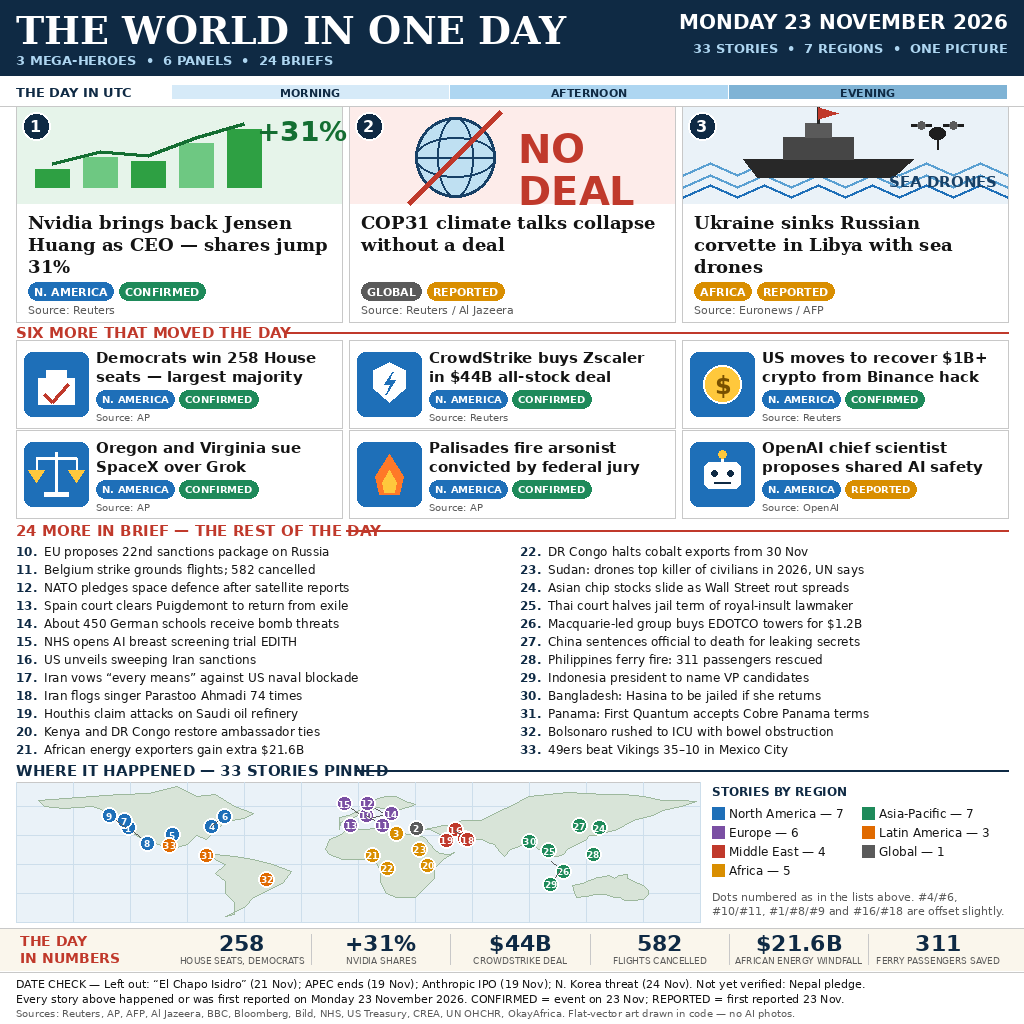
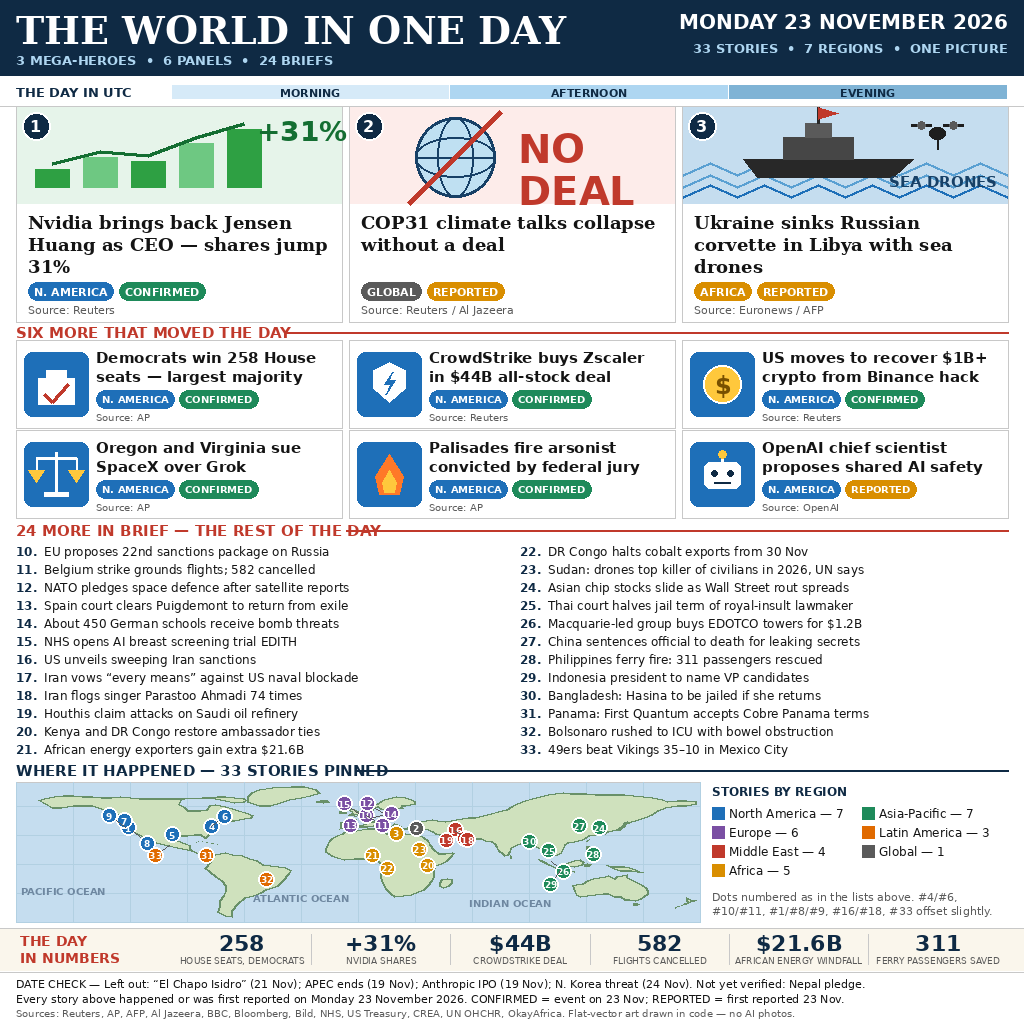
news-image-20261123 acct2: improve world map continents

Changed region(s): [[0.0, 0.75, 0.6875, 0.9062], [0.6562, 0.0938, 1.0, 0.2188], [0.8125, 0.875, 0.9688, 0.9062]]

diff --git a/build.py b/build.py
@@ -30,9 +30,9 @@ PAPER = (255, 255, 255)
 INK = (20, 20, 20)
 GREY = (90, 90, 90)
 LINE = (200, 200, 200)
-SEA = (234, 242, 248)
-LAND = (216, 228, 216)
-LAND_LINE = (157, 184, 157)
+SEA = (197, 221, 239)
+LAND = (207, 225, 189)
+LAND_LINE = (104, 144, 104)
 CREAM = (250, 246, 236)
 
 REGION_COLOR = {
@@ -116,37 +116,138 @@ REGION_COUNTS = [
     ("Africa", 5), ("Asia-Pacific", 7), ("Latin America", 3), ("Global", 1),
 ]
 
-# Coarse continent outlines as (lon, lat) polygons (stylised map).
+# Detailed continent outlines as (lon, lat) polygons, drawn by hand from
+# the real coastlines so each landmass reads at a glance: Alaska and the
+# Hudson Bay notch, Florida and Baja, the Yucatan and Panama isthmus,
+# Greenland, the Brazil bulge, Iberia, the Italy boot, Greece, Scandinavia,
+# the UK and Ireland, the African horn and bulge, Madagascar, Arabia,
+# India, the Malay peninsula, Indonesia, Japan, the Philippines,
+# New Guinea, Australia, Tasmania and New Zealand.
 CONTINENTS = [
-    [(-168, 66), (-140, 70), (-125, 72), (-110, 73), (-95, 80), (-85, 70),
-     (-75, 72), (-65, 60), (-55, 52), (-60, 47), (-70, 44), (-75, 35),
-     (-80, 25), (-85, 30), (-90, 20), (-97, 16), (-105, 20), (-115, 28),
-     (-125, 40), (-125, 49), (-140, 60), (-155, 58), (-165, 60)],
-    [(-80, 10), (-75, 5), (-70, 0), (-75, -10), (-70, -18), (-70, -30),
-     (-65, -40), (-65, -52), (-70, -54), (-60, -45), (-55, -35), (-48, -28),
-     (-40, -20), (-35, -8), (-45, 0), (-55, 5), (-65, 8), (-75, 10)],
-    [(-10, 36), (-9, 43), (-2, 48), (0, 50), (5, 53), (8, 57), (10, 59),
-     (18, 56), (21, 55), (24, 58), (28, 60), (30, 62), (25, 65), (20, 70),
-     (15, 70), (10, 68), (5, 62), (5, 58), (0, 55), (-5, 50), (-10, 48),
-     (-10, 43), (-10, 36)],
-    [(-6, 35), (10, 37), (20, 32), (30, 31), (35, 28), (40, 15), (43, 11),
-     (48, 10), (51, 12), (45, 5), (40, -5), (40, -15), (35, -25), (30, -35),
-     (20, -35), (15, -30), (12, -18), (12, -8), (9, 4), (0, 5), (-8, 5),
-     (-15, 10), (-17, 15), (-15, 25), (-10, 30)],
-    [(30, 36), (35, 36), (40, 38), (45, 40), (50, 40), (55, 45), (60, 45),
-     (65, 45), (70, 50), (75, 55), (80, 60), (85, 65), (90, 70), (100, 72),
-     (110, 74), (120, 73), (130, 72), (140, 72), (150, 70), (160, 66),
-     (170, 66), (178, 65), (170, 60), (160, 55), (155, 50), (145, 45),
-     (140, 40), (135, 35), (130, 33), (127, 30), (122, 30), (120, 25),
-     (115, 20), (110, 15), (108, 10), (105, 8), (100, 8), (98, 12), (95, 15),
-     (92, 20), (90, 22), (88, 22), (85, 18), (80, 15), (77, 8), (75, 12),
-     (72, 20), (68, 22), (65, 25), (60, 25), (57, 26), (55, 27), (52, 28),
-     (50, 29), (48, 30), (45, 30), (42, 32), (38, 36), (35, 36), (30, 36)],
-    [(113, -22), (114, -30), (115, -35), (120, -34), (125, -32), (130, -32),
-     (135, -35), (138, -35), (140, -38), (145, -38), (150, -37), (153, -32),
-     (153, -27), (150, -22), (146, -19), (142, -15), (142, -11), (137, -12),
-     (135, -15), (132, -12), (130, -13), (126, -14), (122, -17), (118, -20),
-     (113, -22)],
+    # North America (Bering Strait, down the Pacific coast, Panama,
+    # up the Caribbean/Gulf/Atlantic coast, Hudson Bay notch, Arctic coast)
+    [(-168, 66), (-161, 58), (-156, 58), (-150, 60), (-144, 60), (-140, 60),
+     (-135, 57), (-130, 54), (-125, 49), (-124, 43), (-121, 36), (-117, 32),
+     (-114, 29), (-110, 24), (-106, 21), (-100, 18), (-95, 16), (-90, 14),
+     (-86, 12), (-83, 9), (-80, 8), (-78, 8), (-81, 10), (-84, 11),
+     (-87, 14), (-88, 16), (-88, 19), (-91, 21), (-95, 24), (-97, 26),
+     (-94, 29), (-90, 29), (-86, 30), (-83, 30), (-81, 26), (-80, 27),
+     (-78, 30), (-76, 34), (-74, 38), (-73, 41), (-70, 42), (-68, 44),
+     (-65, 44), (-60, 46), (-56, 47), (-55, 50), (-59, 53), (-63, 56),
+     (-66, 58), (-70, 60), (-75, 62), (-78, 61), (-80, 57), (-83, 55),
+     (-86, 55), (-89, 56), (-91, 59), (-94, 62), (-93, 66), (-90, 68),
+     (-86, 68), (-82, 69), (-78, 69), (-74, 70), (-70, 70), (-65, 69),
+     (-60, 68), (-58, 66), (-60, 64), (-65, 63), (-70, 65), (-75, 67),
+     (-80, 68), (-85, 68), (-90, 68), (-95, 68), (-100, 68), (-105, 68),
+     (-110, 68), (-115, 68), (-120, 69), (-125, 70), (-130, 69), (-135, 69),
+     (-140, 70), (-145, 70), (-150, 71), (-155, 71), (-160, 70), (-165, 68),
+     (-168, 66)],
+    # Greenland
+    [(-58, 64), (-52, 60), (-46, 60), (-41, 63), (-36, 66), (-30, 68),
+     (-25, 70), (-20, 73), (-22, 77), (-28, 80), (-35, 80), (-45, 79),
+     (-52, 77), (-56, 74), (-58, 70), (-58, 64)],
+    # South America
+    [(-80, 10), (-77, 5), (-80, -2), (-81, -5), (-78, -9), (-75, -14),
+     (-72, -18), (-70, -23), (-70, -28), (-71, -33), (-73, -38), (-73, -44),
+     (-74, -50), (-70, -54), (-66, -55), (-66, -49), (-63, -42), (-59, -36),
+     (-55, -34), (-51, -30), (-48, -27), (-42, -23), (-39, -18), (-36, -11),
+     (-35, -7), (-38, -4), (-42, -2), (-46, -1), (-50, 0), (-53, 4),
+     (-57, 6), (-61, 9), (-66, 10), (-70, 12), (-75, 10), (-77, 8),
+     (-80, 10)],
+    # Europe (Iberia, Italy boot, Greece, Scandinavia, Black Sea coast)
+    [(-10, 36), (-9, 38), (-9, 43), (-2, 44), (-1, 46), (-4, 48), (-1, 49),
+     (0, 51), (3, 53), (5, 53), (8, 55), (8, 57), (10, 59), (12, 57),
+     (18, 56), (18, 54), (21, 55), (21, 57), (24, 58), (23, 60), (25, 60),
+     (30, 62), (30, 65), (28, 67), (25, 69), (20, 70), (18, 69), (14, 67),
+     (12, 65), (10, 63), (6, 61), (5, 58), (8, 58), (6, 55), (3, 52),
+     (0, 50), (-2, 49), (-5, 48), (-2, 47), (-4, 44), (-2, 43), (0, 40),
+     (3, 41), (7, 44), (10, 44), (12, 44), (14, 42), (16, 40), (16, 38),
+     (18, 40), (19, 42), (21, 41), (23, 39), (23, 37), (26, 38), (26, 36),
+     (28, 37), (30, 36), (27, 36), (23, 36), (21, 36), (18, 36), (15, 37),
+     (12, 38), (10, 37), (8, 39), (5, 38), (2, 38), (0, 38), (-2, 37),
+     (-6, 36), (-9, 37), (-10, 36)],
+    # United Kingdom
+    [(-5, 50), (-3, 53), (-5, 56), (-4, 58), (-2, 57), (0, 54), (1, 51),
+     (-2, 50), (-5, 50)],
+    # Ireland
+    [(-10, 52), (-6, 52), (-6, 55), (-8, 55), (-10, 54), (-10, 52)],
+    # Iceland
+    [(-22, 64), (-18, 63), (-15, 64), (-16, 66), (-20, 66), (-22, 65),
+     (-22, 64)],
+    # Africa (west bulge, horn, southern taper)
+    [(-6, 35), (-1, 35), (5, 37), (10, 37), (11, 34), (15, 32), (20, 32),
+     (25, 32), (30, 31), (33, 30), (35, 28), (37, 24), (38, 20), (40, 15),
+     (43, 11), (46, 11), (50, 12), (51, 11), (49, 7), (47, 3), (44, 0),
+     (41, -3), (40, -8), (40, -13), (39, -18), (37, -23), (35, -27),
+     (32, -29), (28, -33), (24, -34), (19, -35), (17, -32), (15, -27),
+     (13, -20), (12, -14), (12, -8), (13, -4), (12, 0), (10, 3), (7, 4),
+     (3, 5), (-2, 5), (-7, 4), (-11, 6), (-14, 8), (-17, 12), (-17, 15),
+     (-16, 20), (-15, 24), (-14, 27), (-11, 30), (-8, 32), (-6, 35)],
+    # Madagascar
+    [(44, -16), (47, -15), (50, -16), (50, -20), (48, -23), (45, -25),
+     (43, -23), (43, -19), (44, -16)],
+    # Asia (Siberia, Pacific coast, Malay peninsula, India, Arabia, Levant)
+    [(28, 41), (30, 43), (33, 44), (36, 45), (39, 46), (42, 45), (46, 44),
+     (49, 45), (52, 46), (55, 47), (58, 48), (62, 48), (66, 50), (70, 52),
+     (74, 54), (78, 57), (81, 60), (84, 63), (88, 66), (92, 68), (96, 70),
+     (100, 72), (104, 73), (108, 74), (112, 73), (116, 73), (120, 73),
+     (125, 72), (130, 72), (135, 72), (140, 72), (145, 71), (150, 70),
+     (155, 69), (160, 67), (163, 65), (168, 66), (173, 66), (178, 65),
+     (178, 62), (173, 60), (168, 60), (162, 58), (158, 54), (155, 50),
+     (151, 47), (146, 44), (142, 42), (140, 38), (137, 35), (134, 34),
+     (131, 33), (128, 31), (125, 30), (122, 29), (120, 26), (118, 24),
+     (114, 22), (111, 21), (109, 19), (108, 15), (107, 11), (105, 9),
+     (103, 8), (101, 7), (99, 9), (98, 12), (96, 15), (93, 18), (91, 21),
+     (89, 22), (87, 21), (84, 19), (81, 16), (80, 12), (79, 9), (77, 8),
+     (76, 10), (74, 13), (73, 17), (72, 20), (70, 22), (67, 23), (65, 25),
+     (62, 25), (59, 25), (57, 26), (55, 27), (53, 27), (51, 28), (49, 29),
+     (48, 30), (46, 30), (43, 30), (41, 31), (39, 33), (37, 35), (35, 36),
+     (33, 36), (31, 36), (29, 37), (28, 39), (28, 41)],
+    # Japan
+    [(130, 31), (132, 33), (134, 34), (136, 35), (138, 35), (139, 37),
+     (140, 38), (141, 40), (141, 42), (143, 42), (142, 44), (140, 43),
+     (139, 40), (137, 37), (135, 35), (133, 34), (131, 33), (130, 31)],
+    # Philippines
+    [(120, 18), (122, 18), (122, 15), (124, 13), (126, 11), (125, 9),
+     (123, 8), (122, 10), (121, 13), (120, 16), (120, 18)],
+    # Sumatra
+    [(95, 5), (97, 4), (99, 2), (101, 0), (103, -2), (105, -4), (106, -6),
+     (104, -5), (102, -3), (100, -1), (98, 1), (96, 3), (95, 5)],
+    # Java
+    [(105, -6), (108, -7), (111, -7), (114, -8), (114, -9), (111, -8),
+     (108, -8), (105, -7), (105, -6)],
+    # Borneo
+    [(109, 1), (111, 2), (114, 4), (117, 5), (119, 2), (118, -1), (116, -3),
+     (114, -4), (111, -3), (109, -1), (109, 1)],
+    # Sulawesi
+    [(119, 0), (121, 1), (123, 0), (122, -2), (120, -3), (119, -2),
+     (119, 0)],
+    # New Guinea
+    [(131, -1), (134, -2), (137, -2), (140, -3), (143, -4), (146, -6),
+     (148, -8), (150, -9), (147, -9), (144, -8), (141, -8), (138, -8),
+     (135, -6), (132, -3), (131, -1)],
+    # Sri Lanka
+    [(80, 9), (81, 8), (81, 6), (80, 6), (80, 9)],
+    # Taiwan
+    [(120, 23), (121, 24), (122, 25), (121, 23), (120, 23)],
+    # Cuba
+    [(-85, 22), (-82, 23), (-79, 22), (-76, 21), (-74, 20), (-77, 21),
+     (-80, 22), (-84, 23), (-85, 22)],
+    # Australia
+    [(113, -22), (114, -28), (115, -33), (117, -35), (121, -34), (125, -33),
+     (129, -32), (132, -32), (135, -35), (138, -35), (140, -38), (143, -38),
+     (146, -39), (149, -37), (151, -35), (153, -31), (153, -27), (152, -24),
+     (150, -22), (147, -19), (144, -16), (142, -14), (142, -11), (139, -12),
+     (136, -13), (135, -15), (132, -12), (130, -13), (127, -14), (124, -15),
+     (121, -17), (118, -20), (115, -21), (113, -22)],
+    # Tasmania
+    [(145, -41), (147, -41), (148, -42), (147, -43), (145, -43), (145, -41)],
+    # New Zealand (North Island)
+    [(173, -35), (175, -37), (177, -38), (178, -38), (177, -39), (175, -40),
+     (174, -41), (173, -39), (173, -36), (173, -35)],
+    # New Zealand (South Island)
+    [(167, -45), (169, -44), (171, -43), (173, -42), (174, -41), (172, -41),
+     (170, -43), (168, -44), (167, -46), (167, -45)],
 ]
 
 
@@ -423,7 +524,7 @@ def draw_briefs(d):
 
 OFFSETS = {6: (13, -10), 11: (16, 10), 15: (-14, -10), 14: (18, -4),
            12: (-16, -10), 9: (-16, -12), 8: (14, 12), 18: (13, 9),
-           26: (12, 10), 29: (-10, 14)}
+           26: (12, 10), 29: (-10, 14), 33: (-14, 10)}
 
 
 def draw_map(d):
@@ -440,13 +541,21 @@ def draw_map(d):
 
     for lon in range(-180, 181, 30):
         x, _ = proj(lon, 85)
-        d.line([x, my0, x, my0 + mh], fill=(205, 222, 235), width=1)
+        d.line([x, my0, x, my0 + mh], fill=(178, 208, 226), width=1)
     for lat in (-60, -30, 0, 30, 60):
         _, y = proj(0, lat)
-        d.line([mx0, y, mx0 + mw, y], fill=(205, 222, 235), width=1)
+        d.line([mx0, y, mx0 + mw, y], fill=(178, 208, 226), width=1)
     for poly in CONTINENTS:
         pts = [proj(lon, lat) for lon, lat in poly]
-        d.polygon(pts, fill=LAND, outline=LAND_LINE)
+        d.polygon(pts, fill=LAND, outline=LAND_LINE, width=2)
+    # ocean labels (empty water, clear of every dot)
+    ocean = (110, 135, 160)
+    for olon, olat, name in ((-155, -28, "PACIFIC OCEAN"),
+                             (-30, -35, "ATLANTIC OCEAN"),
+                             (80, -40, "INDIAN OCEAN")):
+        ox, oy = proj(olon, olat)
+        d.text((ox, oy), name, font=font(SANS_B, 10), fill=ocean,
+               anchor="mm")
     all_stories = ([(n, region, lon, lat)
                     for n, _h, region, _s, _src, lon, lat in HEROES + PANELS]
                    + [(n, region, lon, lat)
@@ -476,7 +585,7 @@ def draw_map(d):
         d.text((x + 17, y), "%s \u2014 %d" % (region, cnt),
                font=font(SANS, 12), fill=INK)
     note = ("Dots numbered as in the lists above. #4/#6, #10/#11, "
-            "#1/#8/#9 and #16/#18 are offset slightly.")
+            "#1/#8/#9, #16/#18, #33 offset slightly.")
     ly = 890
     for ln in wrap(d, note, font(SANS, 11), W - MX - lx):
         d.text((lx, ly), ln, font=font(SANS, 11), fill=GREY)
